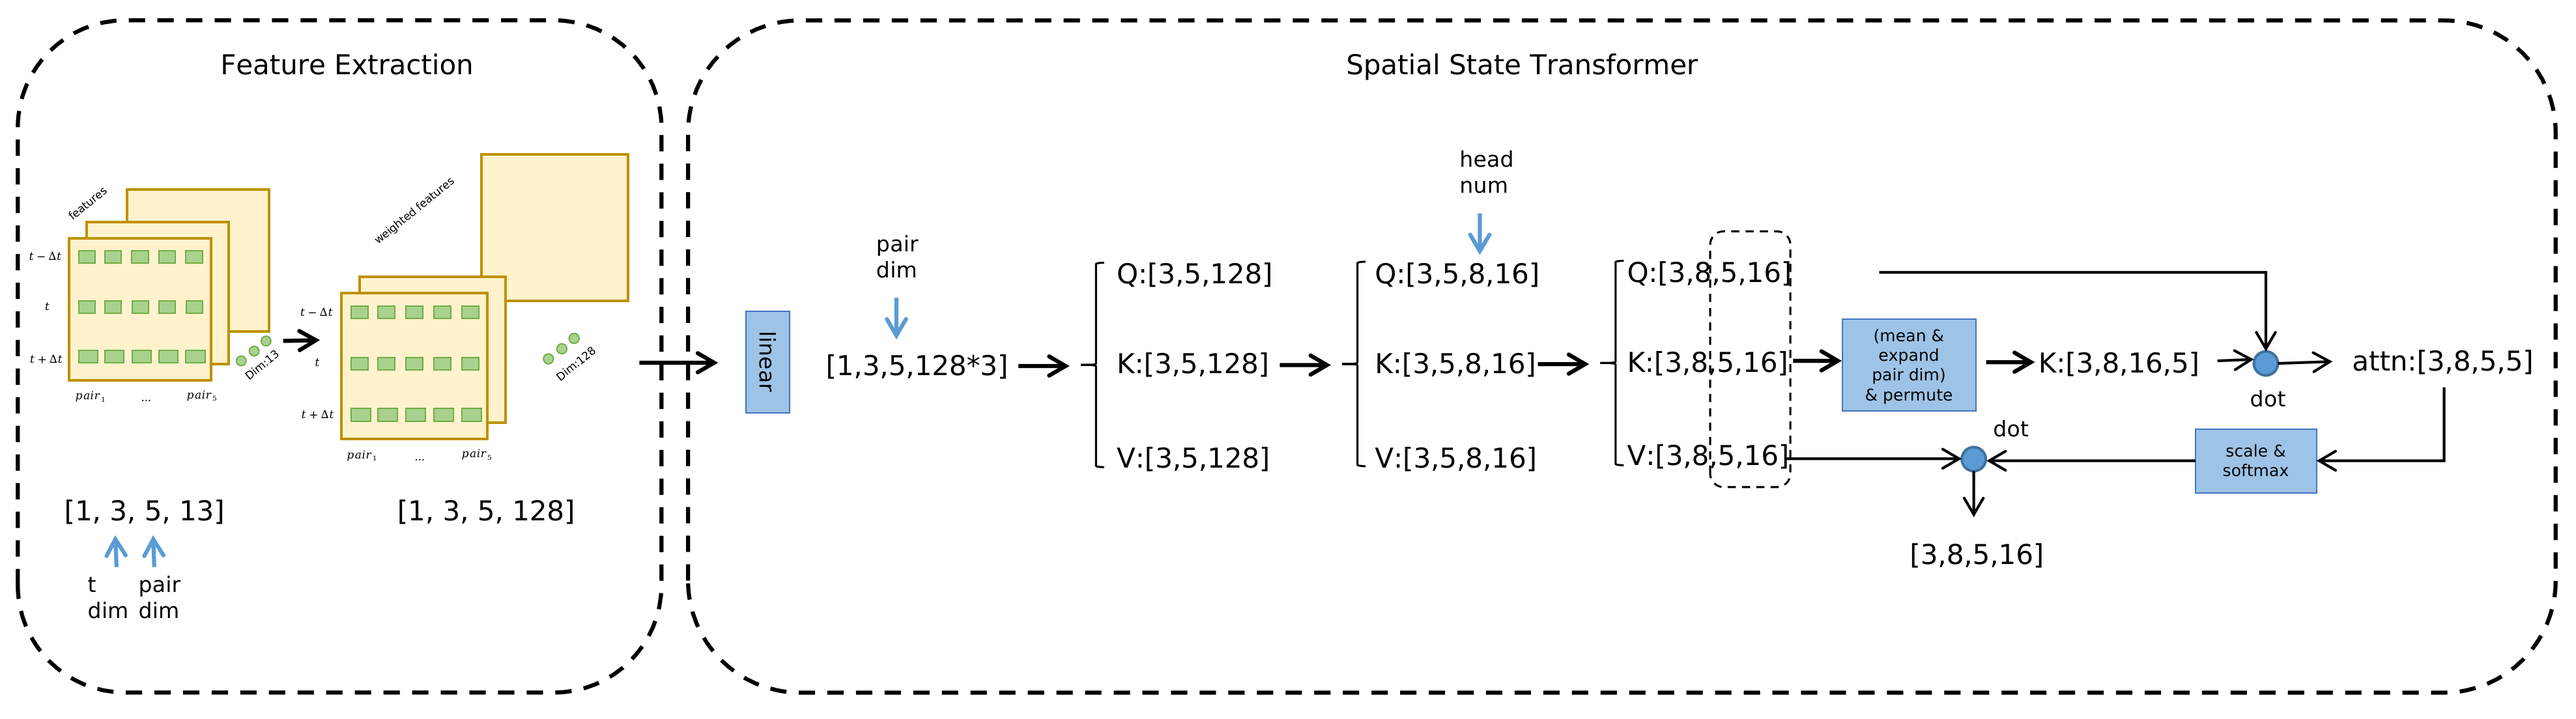
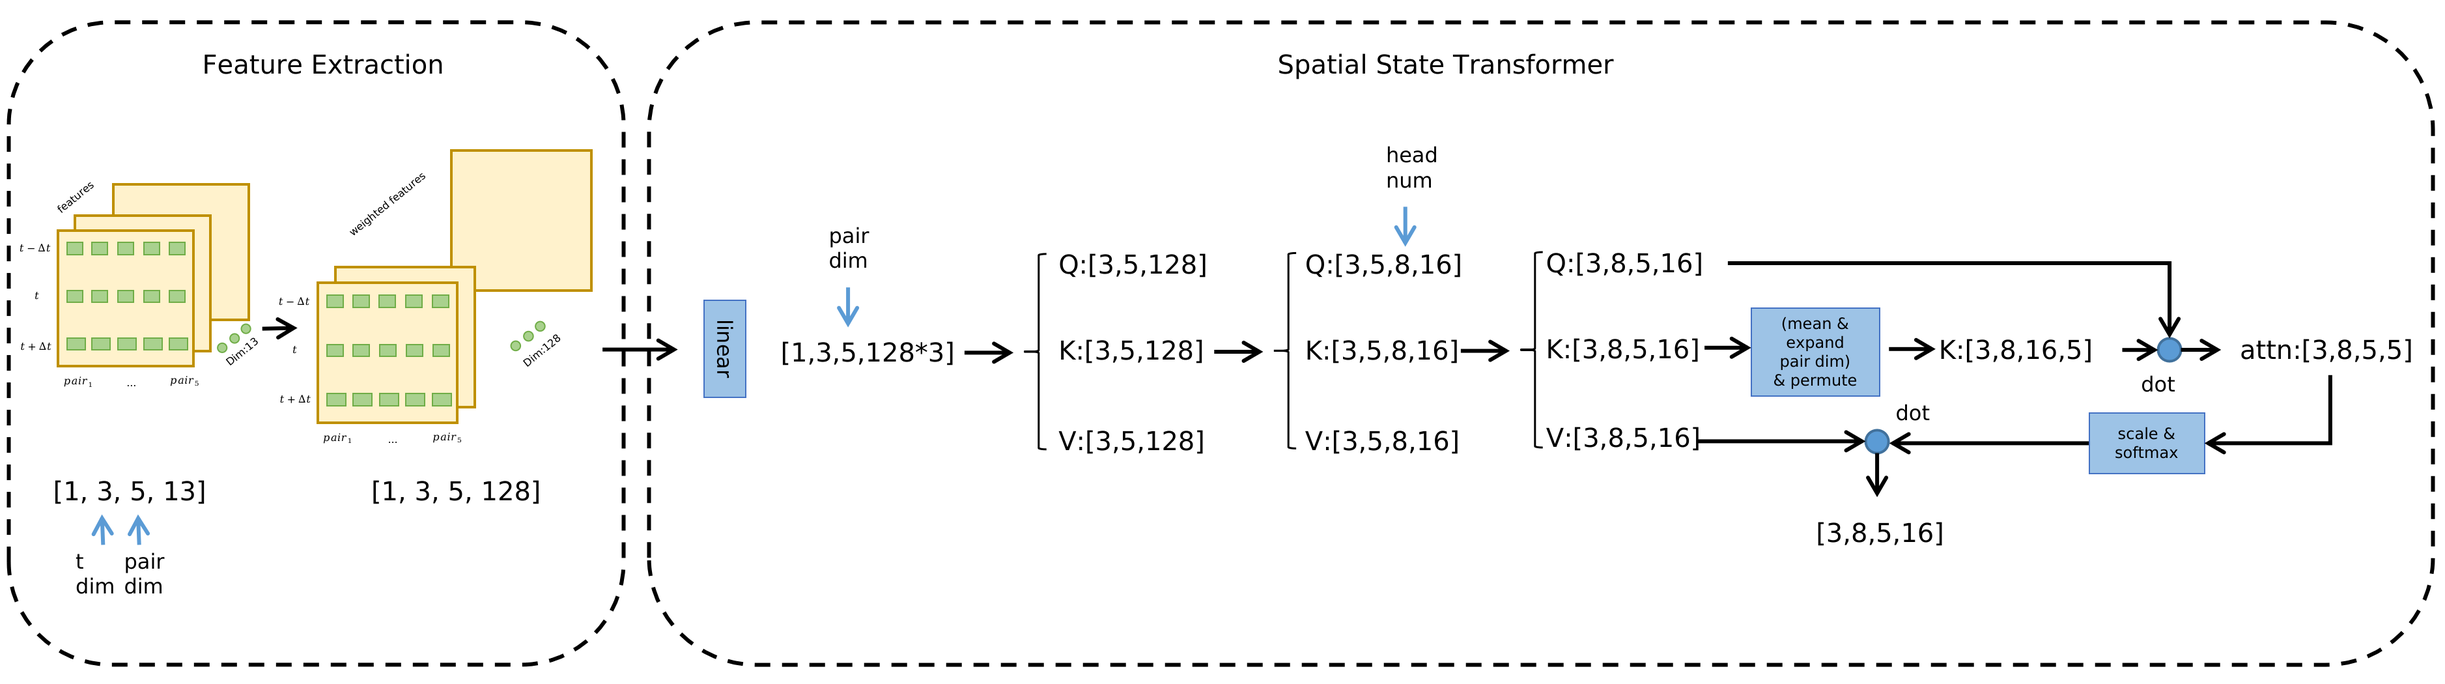
udpate

diff --git a/CrowdNav++/Code_Structure.md b/CrowdNav++/Code_Structure.md
@@ -73,6 +73,54 @@ self.action_space = gym.spaces.Box(-high, high, dtype=np.float32)
 
 ![](Images/ST_Attention.png)
 
+```math
+Q = \begin{bmatrix}
+ q_1 & q_2 & q_3\\
+ q_1 & q_2 & q_3\\
+ q_1 & q_2 & q_3
+\end{bmatrix}, K = \begin{bmatrix}
+ k_1 & k_2 & k_3\\
+ k_1 & k_2 & k_3\\
+ k_1 & k_2 & k_3
+\end{bmatrix}, V = \begin{bmatrix}
+ v_1 & v_2 & v_3\\
+ v_1 & v_2 & v_3\\
+ v_1 & v_2 & v_3
+\end{bmatrix}
+```
+
+```math
+(Q_{mean})^\top\cdot K_{mean} \cdot V = \begin{bmatrix}
+ v_1\cdot q_1(k_1 + k_2 + k3) & v_2\cdot q_1(k_1 + k_2 + k3) & v_3\cdot q_1(k_1 + k_2 + k3)\\
+ v_1\cdot q_2(k_1 + k_2 + k3) & v_2\cdot q_2(k_1 + k_2 + k3) & v_3\cdot q_2(k_1 + k_2 + k3)\\
+ v_1\cdot q_3(k_1 + k_2 + k3) & v_2\cdot q_3(k_1 + k_2 + k3) & v_3\cdot q_3(k_1 + k_2 + k3)
+\end{bmatrix}
+```
+
+<!--
+
+$$Q = \begin{bmatrix}
+ q_1 & q_2 & q_3\\
+ q_1 & q_2 & q_3\\
+ q_1 & q_2 & q_3
+\end{bmatrix}, K = \begin{bmatrix}
+ k_1 & k_2 & k_3\\
+ k_1 & k_2 & k_3\\
+ k_1 & k_2 & k_3
+\end{bmatrix}, V = \begin{bmatrix}
+ v_1 & v_2 & v_3\\
+ v_1 & v_2 & v_3\\
+ v_1 & v_2 & v_3
+\end{bmatrix}$$
+
+$$(Q_{mean})^\top\cdot K_{mean} \cdot V = \begin{bmatrix}
+ v_1\cdot q_1(k_1 + k_2 + k_3) & v_2\cdot q_1(k_1 + k_2 + k_3) & v_3\cdot q_1(k_1 + k_2 + k_3)\\
+ v_1\cdot q_2(k_1 + k_2 + k_3) & v_2\cdot q_2(k_1 + k_2 + k_3) & v_3\cdot q_2(k_1 + k_2 + k_3)\\
+ v_1\cdot q_3(k_1 + k_2 + k_3) & v_2\cdot q_3(k_1 + k_2 + k_3) & v_3\cdot q_3(k_1 + k_2 + k_3)
+\end{bmatrix}$$
+
+-->
+
 - Tips for nn.multihead attn: (*L*,*N*,*E*) when `batch_first=False` where *L* is the target sequence length
 
 - How to handle changeable human number:
@@ -89,6 +137,38 @@ self.action_space = gym.spaces.Box(-high, high, dtype=np.float32)
   ```
 
 - GRU
+
+- Self attention parameters
+
+```
+Conv2d()参数个数计算
+Param = in_c * out_c * k * k + out_c  
+in_c 表示输入通道维度       
+out_c 表示输出通道维度       
+k 表示卷积核大小
+
+Linear()参数个数计算
+Param = in_f * out_f + out_f
+in_f 表示输入特征维度
+out_f 表示输出特征维度
+
+1536  linear 12*128         
+128
+65536  linear 128*512         
+512
+
+262144  linear 512*512         
+512
+262144  linear 512*512         
+512
+262144  linear 512*512         
+512
+
+786432  
+1536
+262144
+512
+```
 
 **Layers Structure**
 
